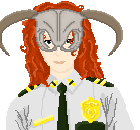
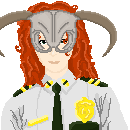
graphical fixes

diff --git a/Assets/Scripts/Rules.cs b/Assets/Scripts/Rules.cs
@@ -489,7 +489,8 @@ public class Rules : MonoBehaviour
 
                 imgCriminalOne.sprite = inferno;
                 imgCriminalTwo.sprite = drMortifier;
-
+                imgCriminalOne.GetComponent<RectTransform>().sizeDelta = new Vector2(290, 290);
+                imgCriminalTwo.GetComponent<RectTransform>().sizeDelta = new Vector2(290, 290);
                 txtCriminalOne.text =
                     "<b>Inferno</b>\n" +
                     "\n" +
@@ -527,6 +528,8 @@ public class Rules : MonoBehaviour
 
                 imgCriminalOne.sprite = phantom;
                 imgCriminalTwo.sprite = fasculto;
+                imgCriminalOne.GetComponent<RectTransform>().sizeDelta = new Vector2(290, 109);
+                imgCriminalTwo.GetComponent<RectTransform>().sizeDelta = new Vector2(300, 111);
 
                 txtCriminalOne.text =
                     "<b>Phantom</b>\n" +
